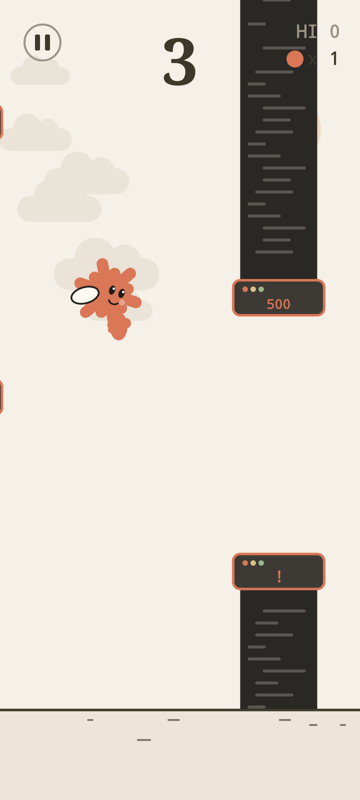
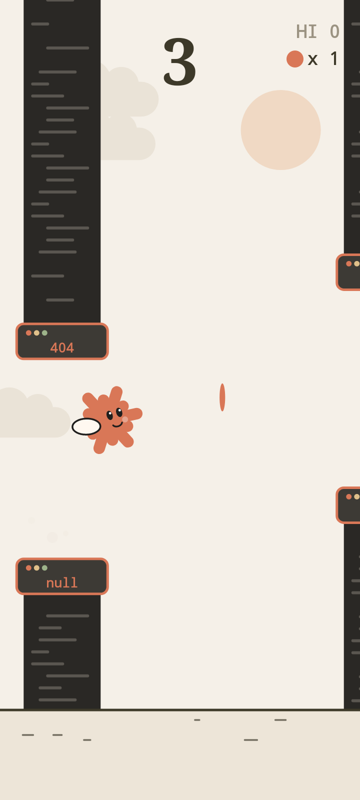
Tighten pillar gaps and remove the on-screen pause button
- Opening between the top and bottom pillar now starts at 40u (was 48u)
  and narrows to 32u (was 38u) as the score climbs
- No pause button during play, so a stray tap never stops a flight; the
  game still pauses itself when you leave the app (and on P / Esc)
- README and screenshots updated

Claude-Session: https://claude.ai/code/session_01JsEeRzoQqdkFd2d3gcLhmc

diff --git a/app/src/main/java/com/claudegame/flappy/GameView.java b/app/src/main/java/com/claudegame/flappy/GameView.java
@@ -38,8 +38,8 @@ public class GameView extends View {
     private static final float MAX_SPEED = 60f;
     private static final float PIPE_W = 17f;
     private static final float PIPE_SPACING = 64f;      // between pipe left edges
-    private static final float START_GAP = 48f;
-    private static final float MIN_GAP = 38f;
+    private static final float START_GAP = 40f;         // opening between top and bottom pillar
+    private static final float MIN_GAP = 32f;
     private static final float BODY_R = 7f;             // spark ray length
     private static final float HIT_R = 4.6f;            // forgiving collision radius
     private static final float GROUND_H = 18f;
@@ -123,7 +123,6 @@ public class GameView extends View {
     private final Music music;
     private final RectF musicBtn = new RectF();
     private final RectF muteBtn = new RectF();
-    private final RectF pauseBtn = new RectF();
     /** Areas covered by a camera notch / punch hole; the HUD stays clear of them. */
     private float safeL, safeR, safeT;
     private int tokenStreak;
@@ -326,10 +325,6 @@ public class GameView extends View {
         }
         if (state != State.RUNNING && musicBtn.contains(x, y)) {
             toggleMusic();
-            return;
-        }
-        if (state == State.RUNNING && pauseBtn.contains(x, y)) {
-            pause();
             return;
         }
         action();
@@ -905,7 +900,6 @@ public class GameView extends View {
     private void drawHud(Canvas c, int fg, int bg) {
         float pad = 4 * u;
         // keep the HUD clear of a camera notch / punch hole
-        float padL = Math.max(pad, safeL + 2 * u);
         float padR = Math.max(pad, safeR + 2 * u);
         float padT = Math.max(pad, safeT + 1 * u);
 
@@ -927,12 +921,6 @@ public class GameView extends View {
             float tw = text.measureText(tc);
             c.drawText(tc, W - padR, padT + 9 * u, text);
             c.drawCircle(W - padR - tw - 2.4f * u, padT + 7.8f * u, 1.7f * u, fill);
-        }
-
-        if (state == State.RUNNING) {
-            drawPauseButton(c, fg, padL + 4.5f * u, padT + 4.5f * u);
-        } else {
-            pauseBtn.setEmpty();
         }
 
         // sound toggles, only on menus so they can't be hit by accident mid-flight
@@ -1023,19 +1011,6 @@ public class GameView extends View {
             c.drawText("Tap to try again", W / 2,
                     rect.bottom + 10 * u + (float) Math.sin(idleTime * 4) * 0.6f * u, title);
         }
-    }
-
-    private void drawPauseButton(Canvas c, int fg, float cx, float cy) {
-        float r = 3.6f * u;
-        pauseBtn.set(cx - r * 1.5f, cy - r * 1.5f, cx + r * 1.5f, cy + r * 1.5f);
-        stroke.setColor(lerpColor(fg, mix(BG), 0.5f));
-        stroke.setStrokeWidth(0.4f * u);
-        c.drawCircle(cx, cy, r, stroke);
-        fill.setColor(fg);
-        rect.set(cx - 1.5f * u, cy - 1.6f * u, cx - 0.5f * u, cy + 1.6f * u);
-        c.drawRoundRect(rect, 0.3f * u, 0.3f * u, fill);
-        rect.set(cx + 0.5f * u, cy - 1.6f * u, cx + 1.5f * u, cy + 1.6f * u);
-        c.drawRoundRect(rect, 0.3f * u, 0.3f * u, fill);
     }
 
     private void drawMuteButton(Canvas c, int fg, float cx, float cy) {

diff --git a/README.md b/README.md
@@ -3,8 +3,9 @@
 A small one-tap Android game starring Claude's orange spark, now with a wing. Tap to
 flap and thread the spark through the gaps between pillars of buggy code (each capped by
 a terminal window showing `ERR`, `404`, `NaN` and friends). Every pillar you pass scores
-a point, and tokens floating between the pillars are worth a bonus point each. The gaps
-narrow as your score climbs, and from 15 points on some of them drift up and down. Day
+a point, and tokens floating between the pillars are worth a bonus point each. The opening
+between the top and bottom pillar is tight from the start and narrows further as your
+score climbs, and from 15 points on some openings drift up and down. Day
 turns to night every 30 points.
 
 **Dark mode:** the game follows your phone's system theme. With dark mode on, it plays
@@ -32,11 +33,12 @@ notch / punch hole, while keeping the score and buttons clear of it.
 | Action | Touch | Keyboard |
 |---|---|---|
 | Start / flap | Tap anywhere | Space, ↑, W, Enter |
-| Pause / resume | Pause button (top left) | P, Esc |
+| Pause / resume | — (pauses itself when you leave the app) | P, Esc |
 | Music on / off | ♫ button (menus only) | N |
 | Sound effects on / off | Speaker button (menus only) | M |
 
-The game also pauses itself when you leave the app.
+There's no on-screen pause button, so a stray tap never stops your flight; the game
+pauses itself when you leave the app, and a tap resumes it.
 
 ## Get the APK
 
